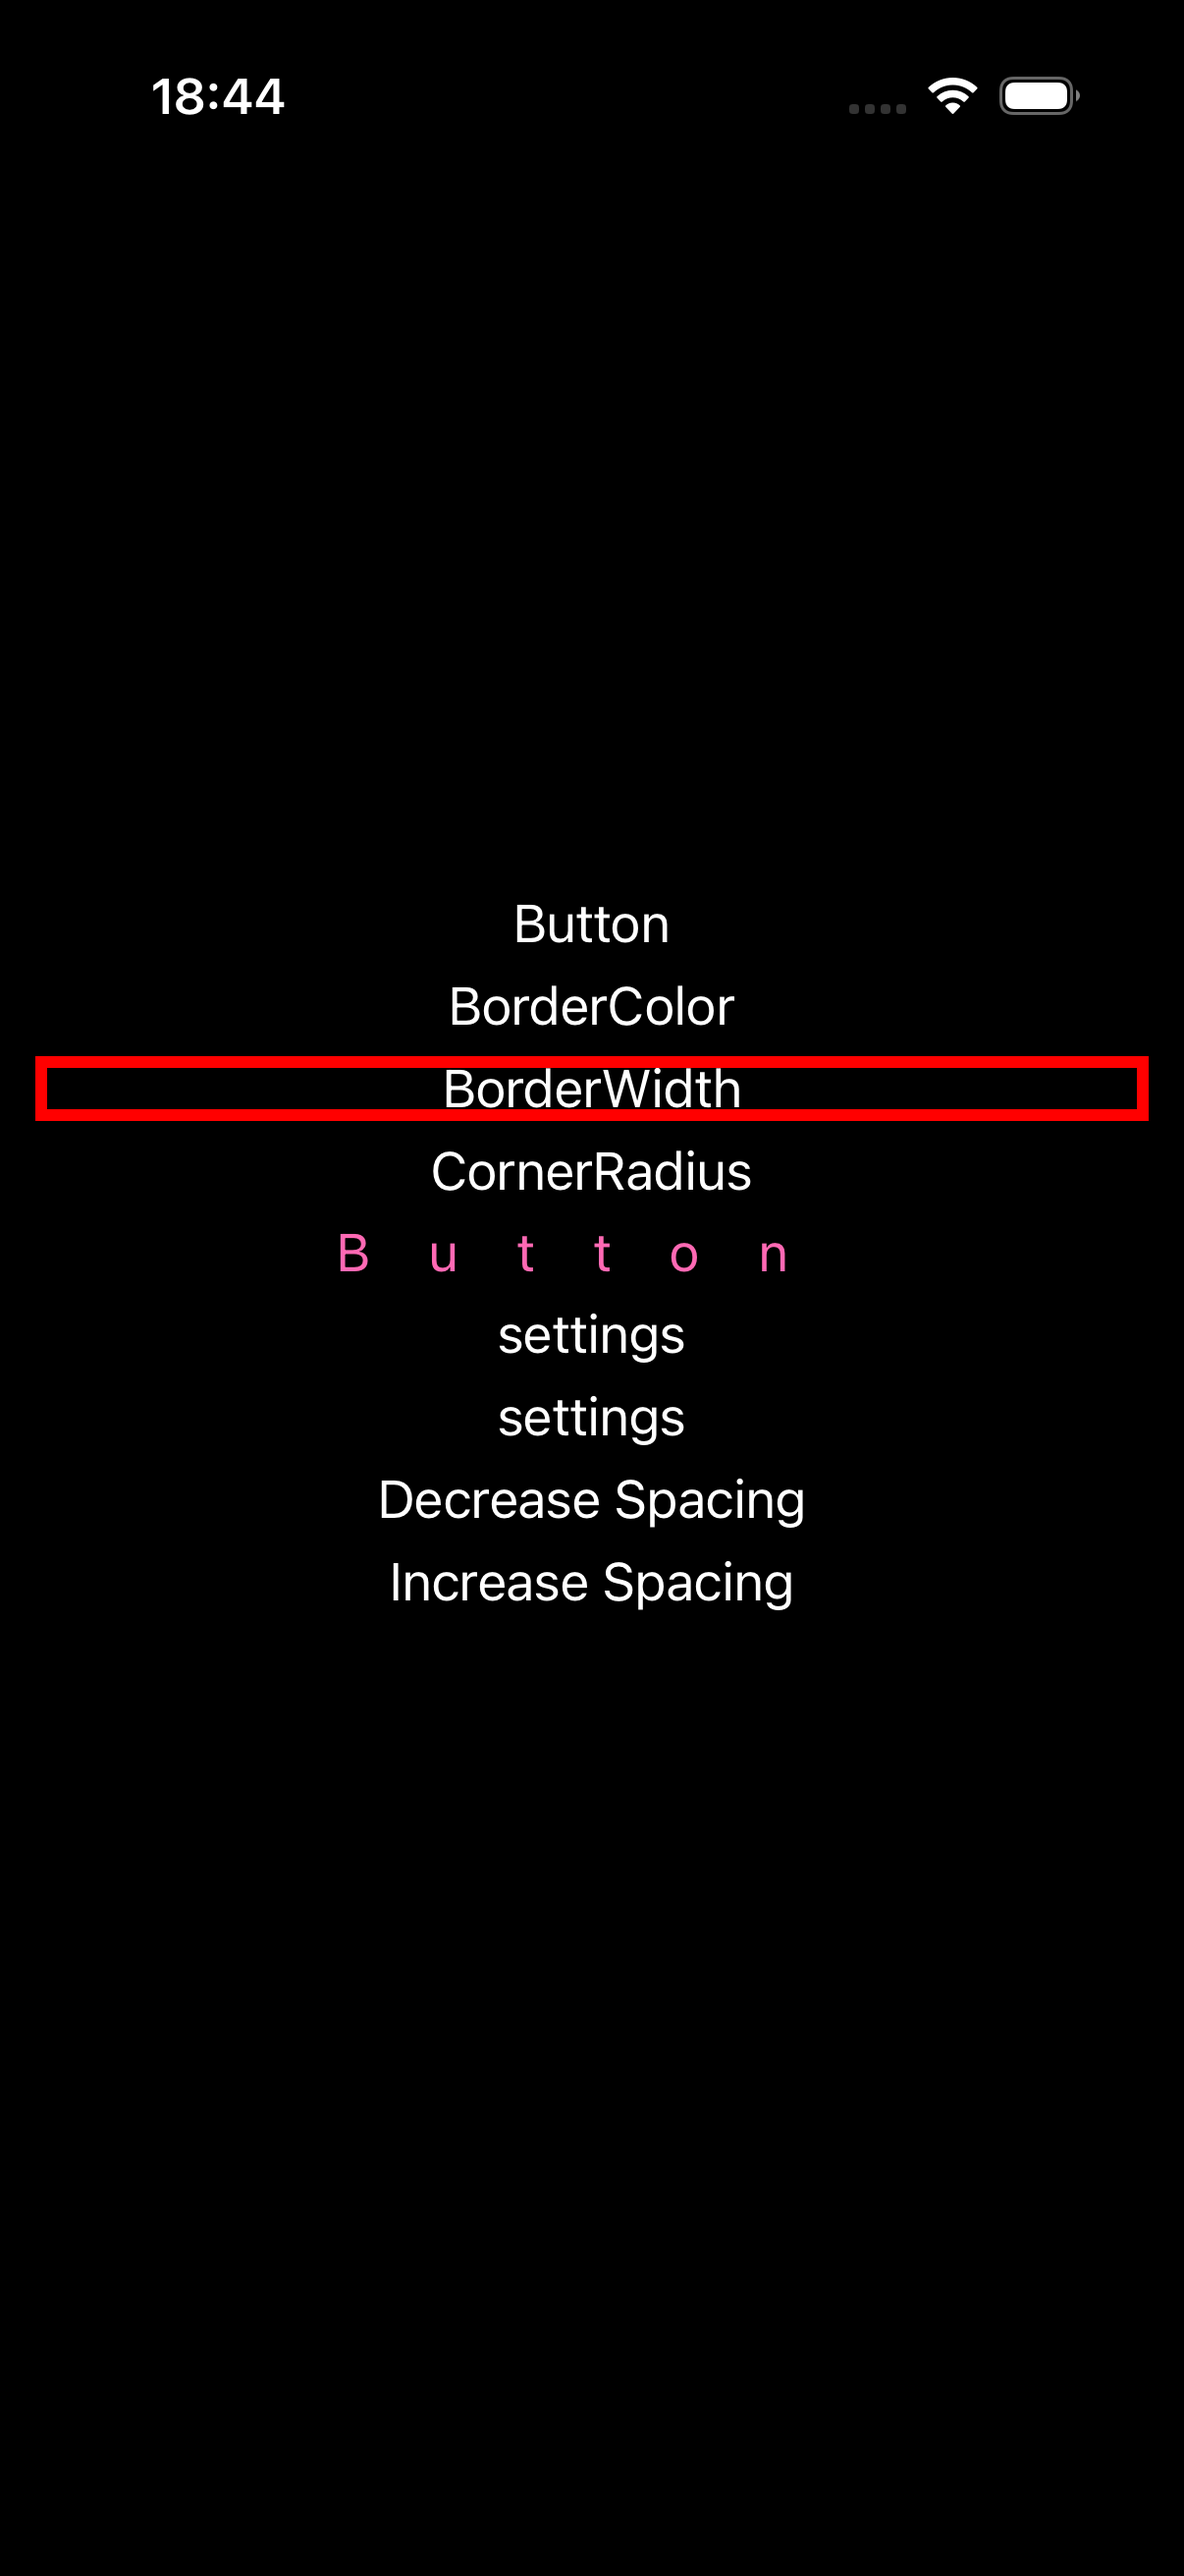
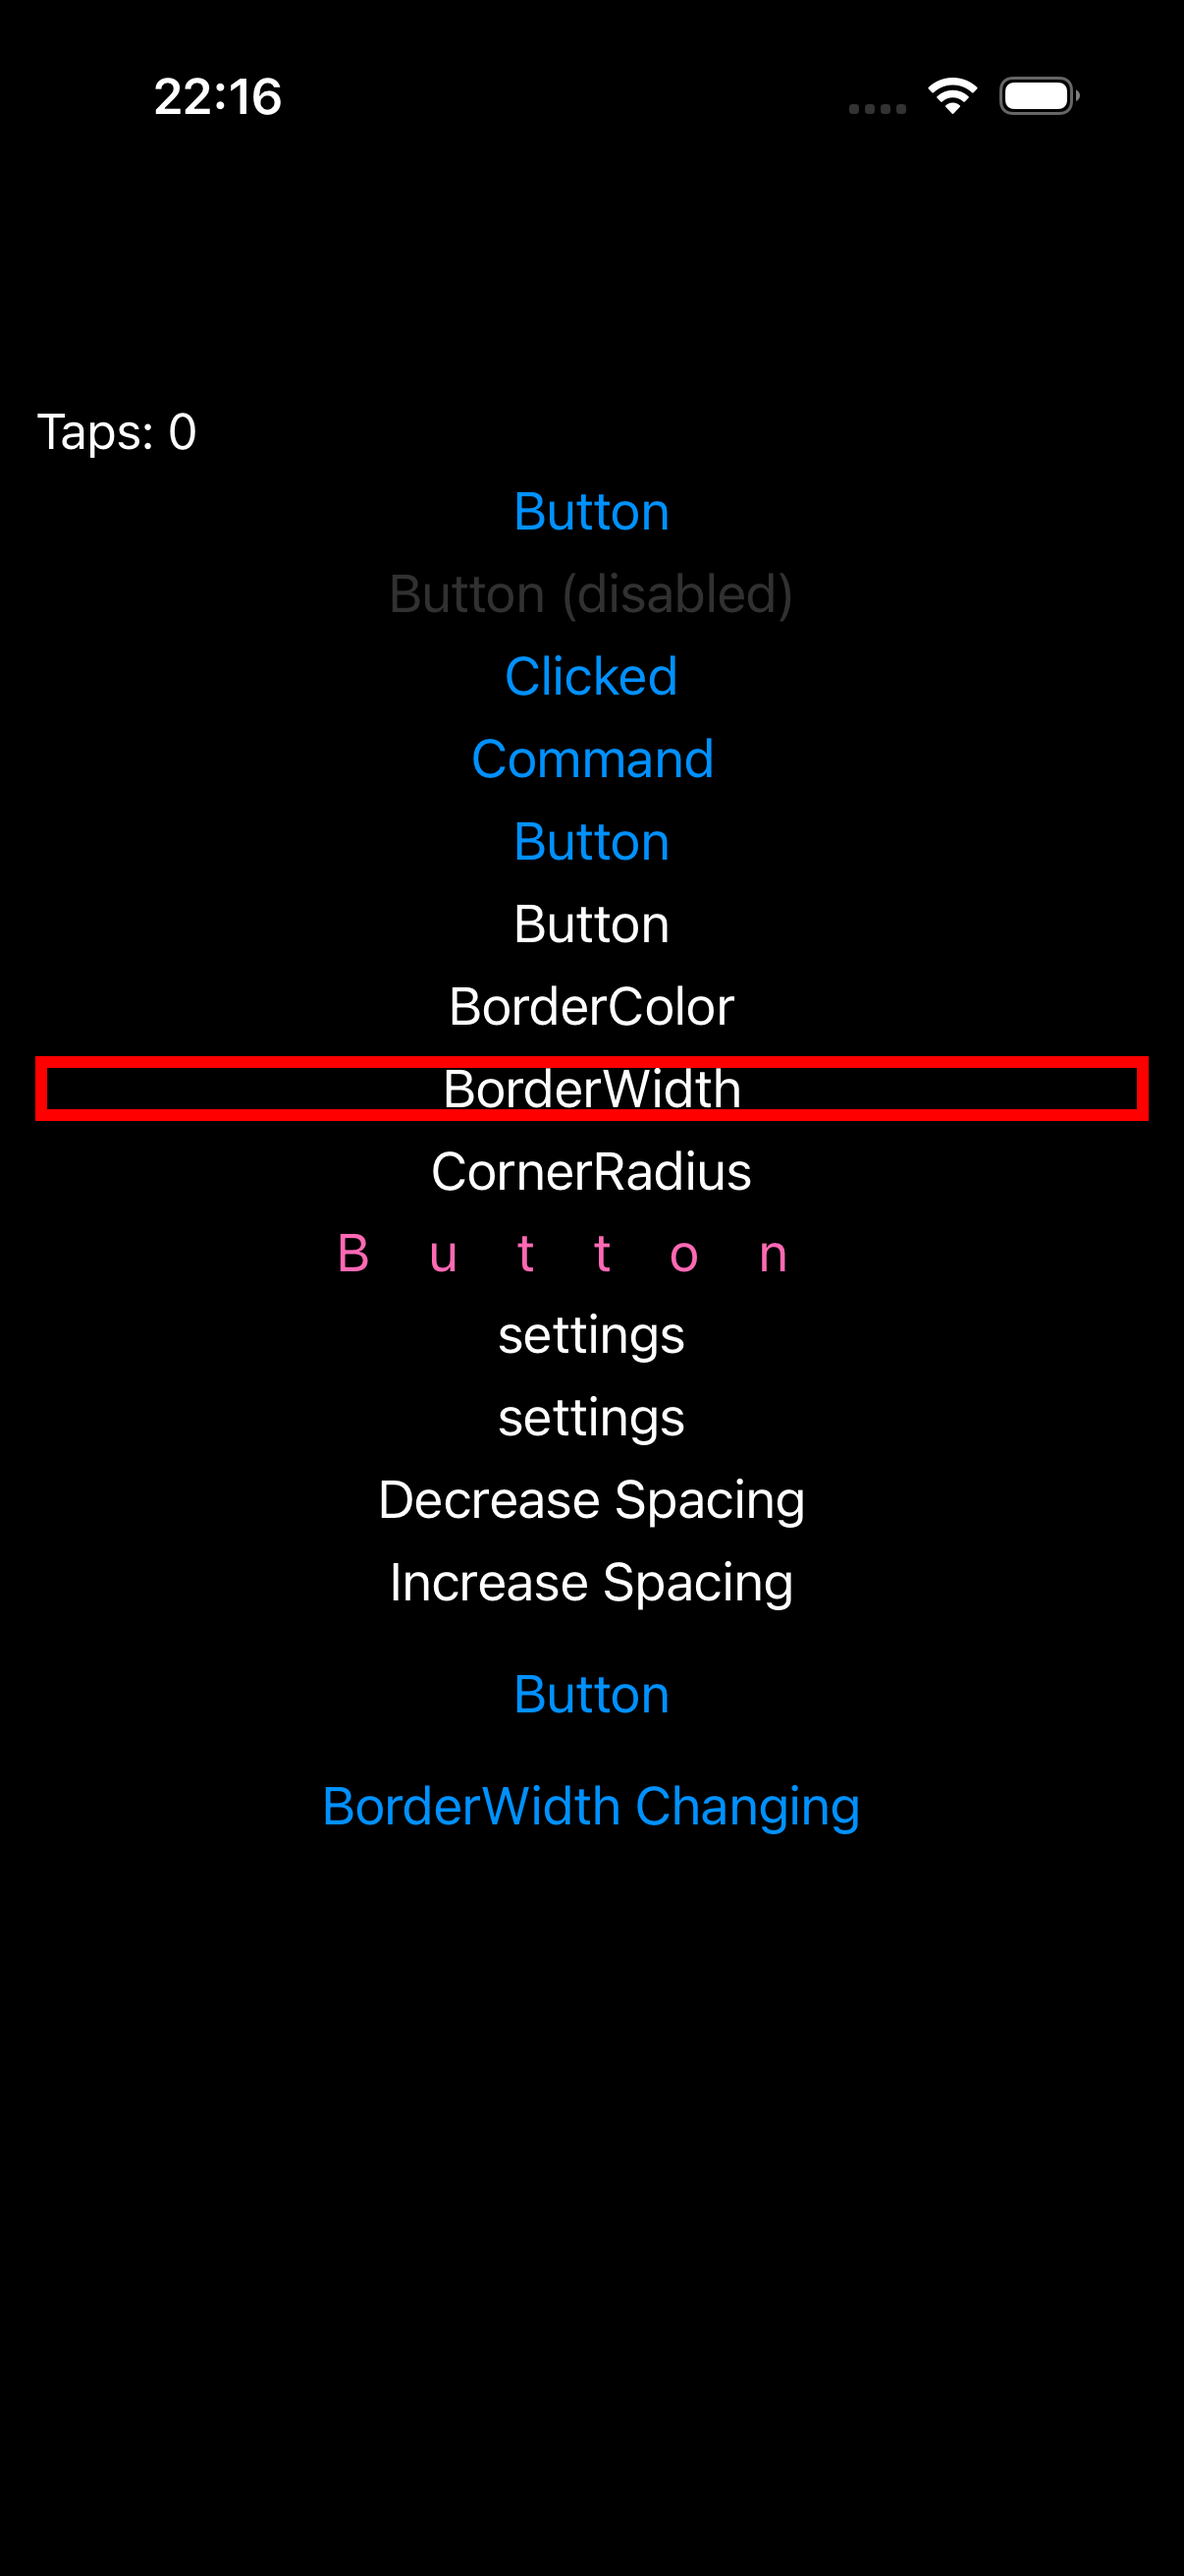
fix(ios,parity): Button uses system tint for unset TextColor (interactive-text + dark visibility)
example 2/172 (button): the iOS button handler forced an opaque color (black) for unset TextColor, so
default buttons showed black text (vs MAUI's iOS tint blue) and were invisible in dark. Now an unset
text_color clears the per-state title overrides + adopts the window tint (MAUI's null-TextColor branch),
so unstyled buttons match MAUI in both appearances. Cascades to alerts/application_control/animation/etc.
(interactive text -> tint). REMAINING (button still diff): explicit BackgroundColor fill on system buttons
not rendered — needs a per-state backgroundImage; scoped follow-up. tidy 0.

diff --git a/port/cpp/src/platform/ios/button_handler.mm b/port/cpp/src/platform/ios/button_handler.mm
@@ -304,14 +304,26 @@ namespace maui::core
             return;
         }
         UIButton* const button = as_button(platform->native);
-        // ButtonExtensions.UpdateTextColor's non-null branch: the three seeded states + TintColor. The
-        // TextColor == null branch (clear the per-state overrides, adopt the window's tint) has no
-        // analog — the port's color is a non-nullable value type (same collapse as the AppKit twin).
-        UIColor* const color = to_ui_color(view.text_color());
-        [button setTitleColor:color forState:UIControlStateNormal];
-        [button setTitleColor:color forState:UIControlStateHighlighted];
-        [button setTitleColor:color forState:UIControlStateDisabled];
-        button.tintColor = color;
+        // ButtonExtensions.UpdateTextColor. Non-null branch: seed the three states + TintColor with the
+        // explicit color. Null branch (MAUI default): clear the per-state overrides and adopt the window's
+        // tint (the system accent, which adapts to light/dark) — the port treats the default-constructed
+        // (unset) color as that null, so an unstyled button shows the iOS tint, not black-on-black in dark.
+        const maui::graphics::color text_color = view.text_color();
+        if (text_color != maui::graphics::color{})
+        {
+            UIColor* const color = to_ui_color(text_color);
+            [button setTitleColor:color forState:UIControlStateNormal];
+            [button setTitleColor:color forState:UIControlStateHighlighted];
+            [button setTitleColor:color forState:UIControlStateDisabled];
+            button.tintColor = color;
+        }
+        else
+        {
+            [button setTitleColor:nil forState:UIControlStateNormal];
+            [button setTitleColor:nil forState:UIControlStateHighlighted];
+            [button setTitleColor:nil forState:UIControlStateDisabled];
+            button.tintColor = nil; // inherit the system/window tint (adapts light/dark)
+        }
         // A kerned (attributed) title carries its own color, so re-apply it (the C# MapTextColor relies
         // on the next MapFormatting pass; the port refreshes eagerly, like its map_text).
         refresh_button_title_formatting(button, view);
